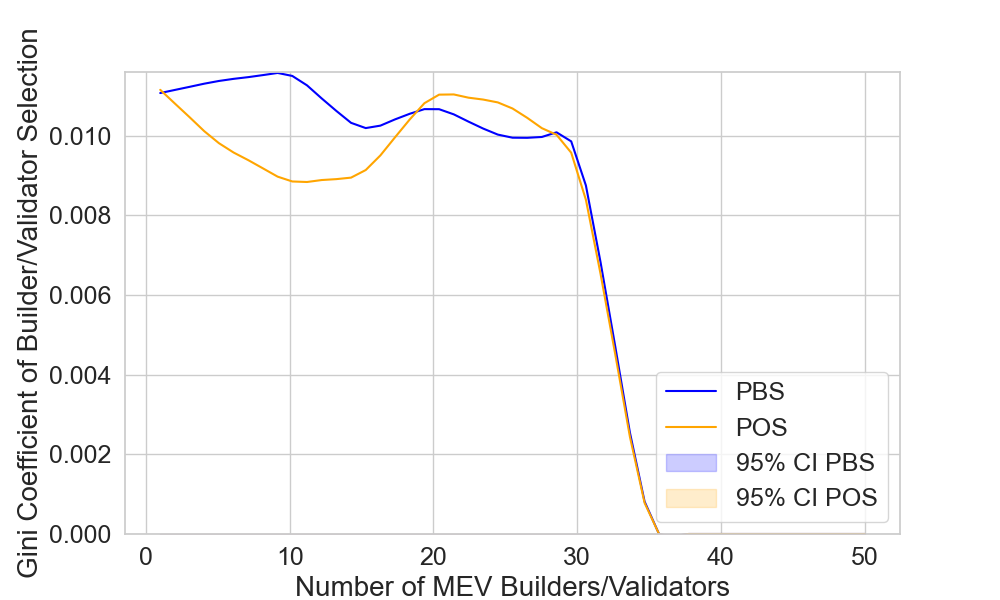
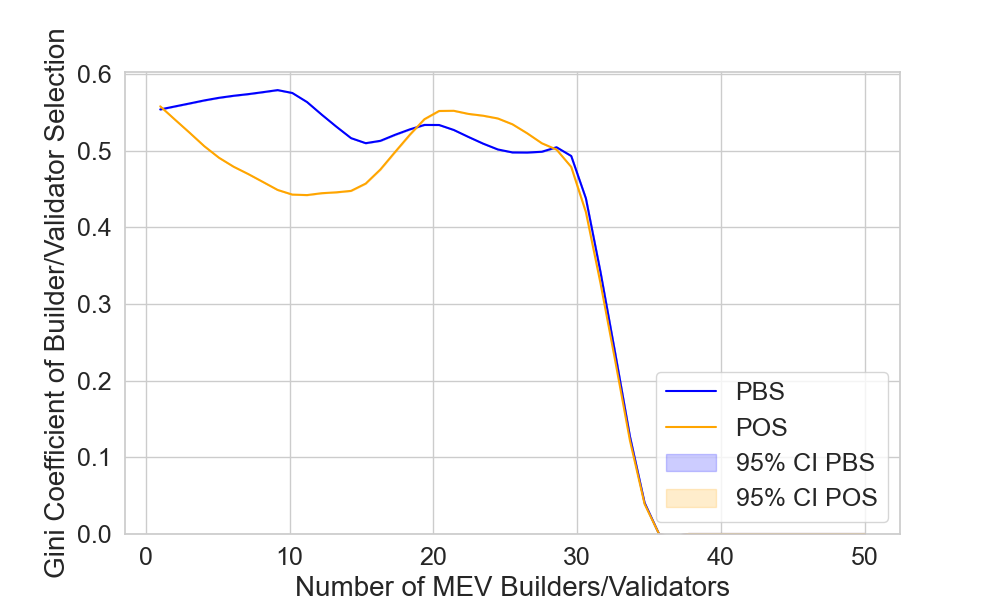
update

Changed region(s): [[0.0, 0.03, 0.899, 0.96], [0.279, 0.9, 0.31, 0.96]]

diff --git a/plots/new/vary_user_content_gini.py b/plots/new/vary_user_content_gini.py
@@ -28,7 +28,7 @@ def load_block_data(data_dir, mev_counts):
     for mev_count in mev_counts:
         for system in ['pbs', 'pos']:
             selection_counts = []
-            for run_id in range(1, 51):
+            for run_id in range(1, 2):
                 file_path = os.path.join(data_dir, f'run{run_id}', f'mev{mev_count}', system, f'block_data_{system}.csv')
                 if os.path.exists(file_path):
                     df = pd.read_csv(file_path)
